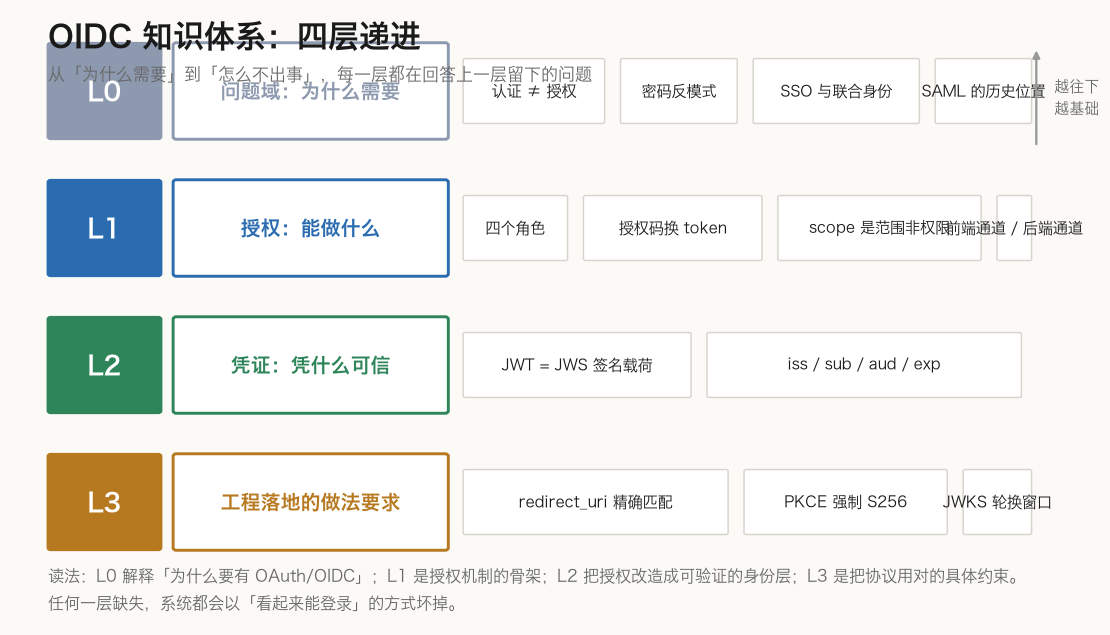
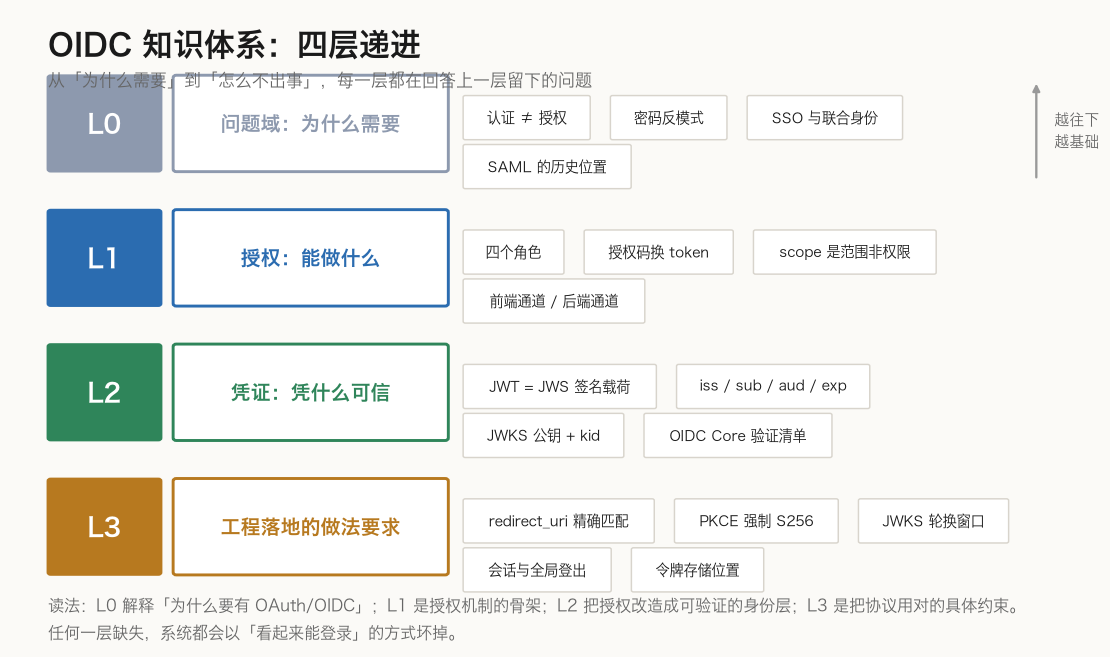
Fix figure label overlaps and drop dark mode in favour of light only

diff --git a/docs/oidc/index.html b/docs/oidc/index.html
@@ -3,7 +3,7 @@
 <head>
 <meta charset="utf-8">
 <meta name="viewport" content="width=device-width, initial-scale=1">
-<meta name="color-scheme" content="light dark">
+<meta name="color-scheme" content="light">
 <title>从一个登录需求，讲到 OIDC</title>
 <meta name="description" content="用一条问题链讲清 OAuth 2.0 与 OIDC：每个方案都是被上一个方案的缺陷逼出来的。">
 <meta property="og:title" content="从一个登录需求，讲到 OIDC">
@@ -11,19 +11,12 @@
 <meta property="og:type" content="article">
 <style>
 :root{
+  color-scheme: light;
   --ink:#1a1a1a; --muted:#565249; --faint:#6f6a62;
   --bg:#fdfcfa; --panel:#ffffff; --line:#e8e4dc; --line2:#d9d4ca;
   --accent:#2b6cb0; --accent-soft:#eaf2fb; --accent2:#2f855a;
   --code-bg:#f4f2ed; --code-ink:#8a3b1f;
   --measure:40rem;
-}
-@media (prefers-color-scheme: dark){
-  :root{
-    --ink:#e9eaf0; --muted:#b3b8c4; --faint:#9aa0ae;
-    --bg:#1b1f27; --panel:#222732; --line:#2e3440; --line2:#3a414f;
-    --accent:#84b6e8; --accent-soft:#212c3d; --accent2:#82c7a2;
-    --code-bg:#252b36; --code-ink:#e3a887;
-  }
 }
 *{box-sizing:border-box}
 html{-webkit-text-size-adjust:100%; scroll-behavior:smooth; scroll-padding-top:2rem}
@@ -90,14 +83,6 @@ table{border-collapse:collapse; width:100%; font-size:.9rem; line-height:1.6; mi
 th,td{padding:.6rem .85rem; text-align:left; vertical-align:top; border-bottom:1px solid var(--line)}
 th{background:var(--code-bg); font-weight:600; font-size:.82rem; color:var(--muted); white-space:nowrap}
 tbody tr:last-child td{border-bottom:none}
-
-/* 暗色模式下的插图：不用滤镜反相，改成同一套绘图脚本渲染的深色版 PNG。
-   build_site.py 输出 <picture>，按 prefers-color-scheme 自动选图，
-   所以这里只需要处理边框，不需要对像素做任何变换。 */
-@media (prefers-color-scheme: dark){
-  figure img{ border-color: var(--line2); background: transparent; }
-  figure picture{ display: contents; }
-}
 
 /* 插图允许突破正文栏宽（最多 56rem）：用小字图也能看清，不必非得点开灯箱。
    用负 margin 外扩，容器宽度由正文栏宽决定，不依赖视口宽度。 */
@@ -240,7 +225,7 @@ figcaption{font-size:.81rem; color:var(--faint); margin-top:.75rem; line-height:
 <p>约定：每章开头抛问题，结尾一句话回答。<strong>前面出现的概念都在前面解释过</strong>；如果某处必须提前用一个词，我会当场用一句话说明它是什么，不指望你往后翻。</p>
 <p>只想拿结论的人，直接看第 8 章；想理解为什么，按顺序读。</p>
 <ul>
-<figure class="fig-wide"><picture><source media="(prefers-color-scheme: dark)" srcset="img/01_layers_dark.png"><img src="img/01_layers.png" alt="图 1｜本文路线：五个问题，五个答案" loading="lazy"></picture><figcaption>图 1｜本文路线：五个问题，五个答案</figcaption></figure>
+<figure class="fig-wide"><img src="img/01_layers.png" alt="图 1｜本文路线：五个问题，五个答案" loading="lazy"><figcaption>图 1｜本文路线：五个问题，五个答案</figcaption></figure>
 </ul>
 <hr>
 <h2 id="0">第 0 章 一个具体需求</h2>
@@ -317,7 +302,7 @@ figcaption{font-size:.81rem; color:var(--faint); margin-top:.75rem; line-height:
 <p>更关键的一点在后面：<strong>SAML 一开始就是奔着"认证"去的</strong>——它的产物就是"这个人是谁"。而 OAuth 走的是一条绕远的路：先解决"授权"（能做什么），认证是后来补上去的。</p>
 <p>这个顺序差异，解释了后面所有别扭的地方：为什么 OIDC 要用一个叫 scope 的参数来决定"这是不是认证请求"，为什么 ID Token 会和 access token 长得像但用途完全不同。<strong>因为认证是搭在授权框架上加盖的一层，而不是重写一遍。</strong></p>
 <ul>
-<figure class="fig-wide"><picture><source media="(prefers-color-scheme: dark)" srcset="img/02_flow_dark.png"><img src="img/02_flow.png" alt="图 2｜这条路走了二十年：每个标准都在补上一版的洞" loading="lazy"></picture><figcaption>图 2｜这条路走了二十年：每个标准都在补上一版的洞</figcaption></figure>
+<figure class="fig-wide"><img src="img/02_flow.png" alt="图 2｜这条路走了二十年：每个标准都在补上一版的洞" loading="lazy"><figcaption>图 2｜这条路走了二十年：每个标准都在补上一版的洞</figcaption></figure>
 </ul>
 <p>（图里会出现几个还没解释的名词——PKCE、ROPC、发送方约束。现在不用管它们，只要看出「每次都是补上一个的洞」就够了；它们分别在第 5 章出现。）</p>
 <hr>
@@ -406,7 +391,7 @@ figcaption{font-size:.81rem; color:var(--faint); margin-top:.75rem; line-height:
 <h3 id="25">2.5 把这一步摊开看</h3>
 <p>下面这张图把一次完整登录的九个动作按时间排开，标了每一步走哪条通道。</p>
 <ul>
-<figure class="fig-wide"><picture><source media="(prefers-color-scheme: dark)" srcset="img/03_timeline_dark.png"><img src="img/03_timeline.png" alt="图 3｜授权码流程 + PKCE 的完整时序（第 5 章会解释 PKCE 那两个参数）" loading="lazy"></picture><figcaption>图 3｜授权码流程 + PKCE 的完整时序（第 5 章会解释 PKCE 那两个参数）</figcaption></figure>
+<figure class="fig-wide"><img src="img/03_timeline.png" alt="图 3｜授权码流程 + PKCE 的完整时序（第 5 章会解释 PKCE 那两个参数）" loading="lazy"><figcaption>图 3｜授权码流程 + PKCE 的完整时序（第 5 章会解释 PKCE 那两个参数）</figcaption></figure>
 </ul>
 <p>按顺序读：</p>
 <p><strong>第 1 步（前端）</strong> 用户点了 A 系统的"用公司账号登录"。A 系统生成一个跳转地址，把浏览器送过去。这个地址里带着：我是谁（<code>client_id</code>）、我要什么（<code>scope</code>）、办完回哪（<code>redirect_uri</code>）、以及一个防伪标记（<code>state</code>）。</p>
@@ -776,7 +761,7 @@ figcaption{font-size:.81rem; color:var(--faint); margin-top:.75rem; line-height:
 </table></div>
 <p><strong>三者可以叠加，不能互相替代。</strong> 少一个就少一层防护。特别地，用 <code>nonce</code> 代替 PKCE 只有在"机密客户端 + 有其他额外防护"的条件下才被允许。</p>
 <ul>
-<figure class="fig-wide"><picture><source media="(prefers-color-scheme: dark)" srcset="img/04_defenses_dark.png"><img src="img/04_defenses.png" alt="图 4｜三个参数各钉住什么" loading="lazy"></picture><figcaption>图 4｜三个参数各钉住什么</figcaption></figure>
+<figure class="fig-wide"><img src="img/04_defenses.png" alt="图 4｜三个参数各钉住什么" loading="lazy"><figcaption>图 4｜三个参数各钉住什么</figcaption></figure>
 </ul>
 <h3 id="55">5.5 攻击四：回调地址被做手脚</h3>
 <p><strong>场景</strong>：应用登记的回调地址是 <code>https://legit.example.com/cb</code>。如果账号系统用"前缀匹配"来校验，攻击者可以注册 <code>https://legit.example.com.evil.com/cb</code>——它的前缀正好是合法地址。或者利用路径穿越：<code>https://legit.example.com/cb/../open</code>。授权码就被送到了攻击者那里。</p>
@@ -831,7 +816,7 @@ figcaption{font-size:.81rem; color:var(--faint); margin-top:.75rem; line-height:
 <p>做法是：浏览器里不存 token，只存一个 HttpOnly 的会话 cookie（页面脚本读不到）；真正的 token 存放在后端，前端通过自己的后端转发请求。</p>
 <p>这不是因为它完美——它引入了额外的后端、需要处理 CSRF、要管会话存储。而是因为<strong>其他选项都更差</strong>：只要 token 进了 JavaScript 的作用域，一个 XSS 就能把它带走，而你没有任何补救手段。</p>
 <ul>
-<figure class="fig-wide"><picture><source media="(prefers-color-scheme: dark)" srcset="img/05_tokens_dark.png"><img src="img/05_tokens.png" alt="图 5｜三种令牌的职责对照" loading="lazy"></picture><figcaption>图 5｜三种令牌的职责对照</figcaption></figure>
+<figure class="fig-wide"><img src="img/05_tokens.png" alt="图 5｜三种令牌的职责对照" loading="lazy"><figcaption>图 5｜三种令牌的职责对照</figcaption></figure>
 </ul>
 <h3 id="58">5.8 登出比想象中难</h3>
 <p>用户点"退出"，直觉是"把本地 cookie 删了就行"。不够。有三件事必须同时做：</p>
